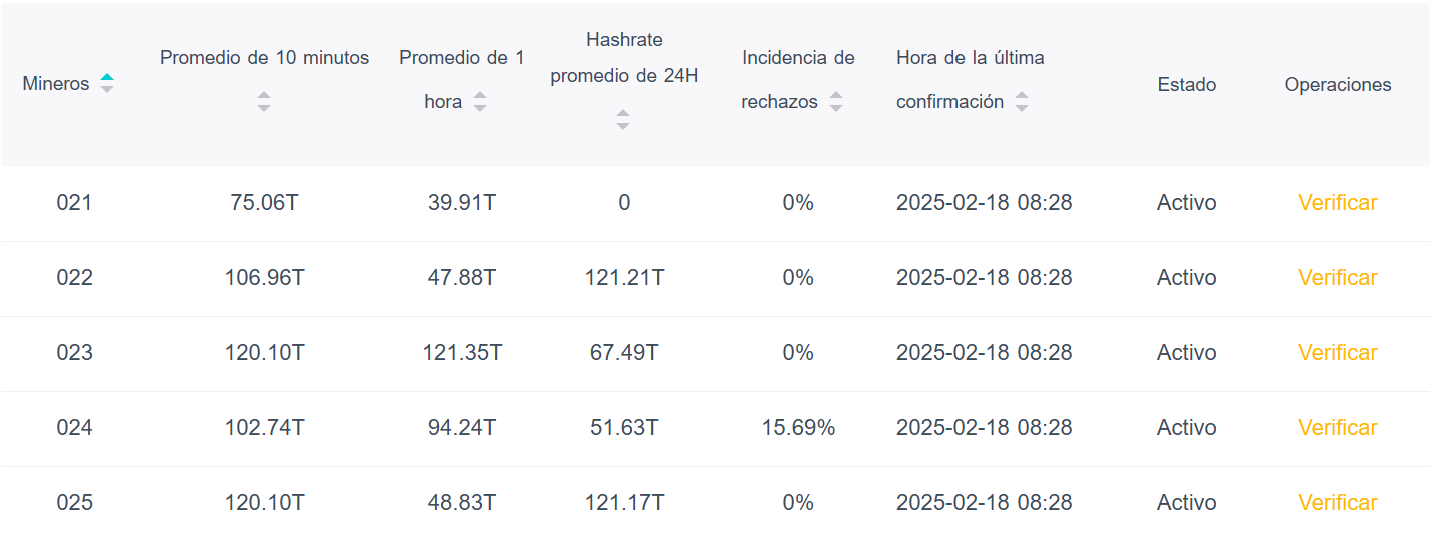
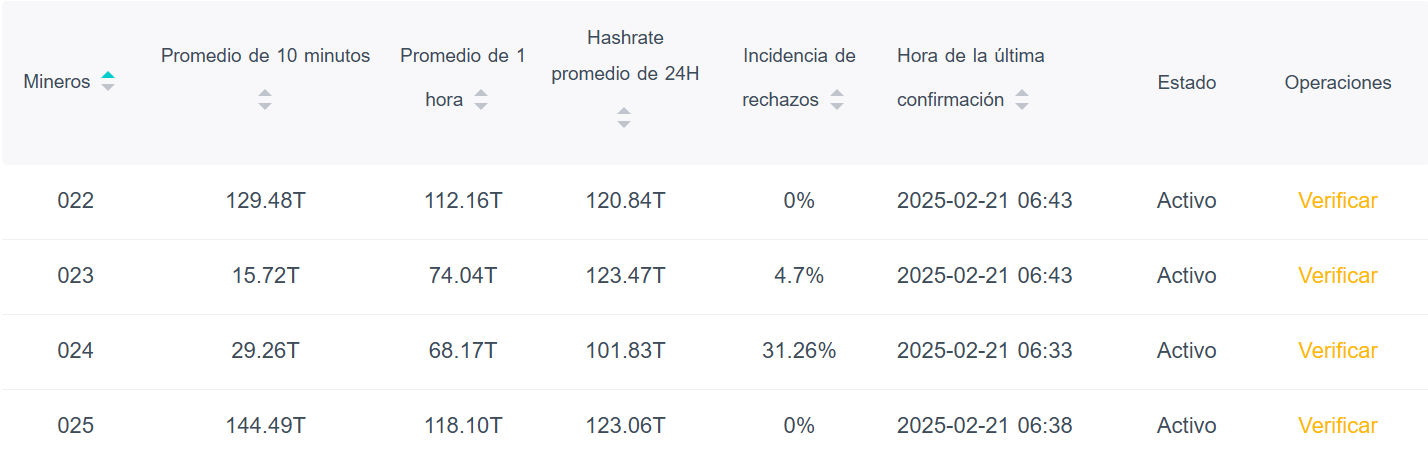
actualización reporte 21-02-25

diff --git a/index.html b/index.html
@@ -1,92 +1,110 @@
 <!DOCTYPE html>
 <html lang="en">
-<head>
-  <meta charset="UTF-8">
-  <meta name="viewport" content="width=device-width, initial-scale=1.0">
-  <title>Reporte 18 de Febrero</title>
-  <link rel="stylesheet" href="assets/css/style.css">
-  <link href="https://cdn.jsdelivr.net/npm/bootstrap@5.3.0/dist/css/bootstrap.min.css" rel="stylesheet">
-</head>
-<body>
-
-  <header>
-    <nav class="navbar navbar-expand-lg navbar-dark fixed-top">
-      <div class="container-fluid">
-        <a class="navbar-brand" href="#">Menú</a>
-        <button class="navbar-toggler" type="button" data-bs-toggle="collapse" data-bs-target="#navbarNav"
-          aria-controls="navbarNav" aria-expanded="false" aria-label="Toggle navigation">
-          <span class="navbar-toggler-icon"></span>
-        </button>
-        <div class="collapse navbar-collapse" id="navbarNav">
-          <ul class="navbar-nav me-auto">
-            <li class="nav-item"><a class="nav-link" href="#cristank">CRISTANK VIA BTC</a></li>
-            <li class="nav-item"><a class="nav-link" href="#ale">ALE VIA BTC</a></li>
-            <li class="nav-item"><a class="nav-link" href="#kaspa">KASPA CRISTANK</a></li>
-            <li class="nav-item"><a class="nav-link" href="#kaspa2">KASPA CRIS & CONY</a></li>
-            <li class="nav-item"><a class="nav-link" href="#chia">CHIA</a></li>
-            <li class="nav-item"><a class="nav-link" href="#gpu">CANTIDAD GPU EN HOST</a></li>
-            <li class="nav-item"><a class="nav-link" href="#estadoasic">ESTADO ASIC CRISTANK 026</a></li>
-            <li class="nav-item"><a class="nav-link" href="#itinerario">MI ITINERARIO</a></li>
-          </ul>
+  <head>
+    <meta charset="UTF-8" />
+    <meta name="viewport" content="width=device-width, initial-scale=1.0" />
+    <title>Reporte 18 de Febrero</title>
+    <link rel="stylesheet" href="assets/css/style.css" />
+    <link
+      href="https://cdn.jsdelivr.net/npm/bootstrap@5.3.0/dist/css/bootstrap.min.css"
+      rel="stylesheet"
+    />
+  </head>
+  <body>
+    <header>
+      <nav class="navbar navbar-expand-lg navbar-dark fixed-top">
+        <div class="container-fluid">
+          <a class="navbar-brand" href="#">Menú</a>
+          <button
+            class="navbar-toggler"
+            type="button"
+            data-bs-toggle="collapse"
+            data-bs-target="#navbarNav"
+            aria-controls="navbarNav"
+            aria-expanded="false"
+            aria-label="Toggle navigation"
+          >
+            <span class="navbar-toggler-icon"></span>
+          </button>
+          <div class="collapse navbar-collapse" id="navbarNav">
+            <ul class="navbar-nav me-auto">
+              <li class="nav-item">
+                <a class="nav-link" href="#cristank">CRISTANK VIA BTC</a>
+              </li>
+              <li class="nav-item">
+                <a class="nav-link" href="#ale">ALE VIA BTC</a>
+              </li>
+              <li class="nav-item">
+                <a class="nav-link" href="#kaspa">KASPA CRISTANK</a>
+              </li>
+              <li class="nav-item">
+                <a class="nav-link" href="#kaspa2">KASPA CRIS & CONY</a>
+              </li>
+              <li class="nav-item">
+                <a class="nav-link" href="#chia">CHIA</a>
+              </li>
+              <li class="nav-item">
+                <a class="nav-link" href="#itinerario">MI ITINERARIO</a>
+              </li>
+            </ul>
+          </div>
         </div>
+      </nav>
+
+      <div class="logotipo">
+        <img src="assets/img/Patagonia_Cryptominer.jpeg" alt="Encabezado" />
       </div>
-    </nav>
+    </header>
 
-    <div class="logotipo">
-      <img src="assets/img/Patagonia_Cryptominer.jpeg" alt="Encabezado">
-    </div>
-  </header>
+    <main class="contenido">
+      <div class="bloque" id="cristank">
+        <h1>CRISTANK VIA BTC</h1>
+        <img src="assets/img/viabtc cristank.png" alt="Contenido 1" />
+        <img src="assets/img/viabtc cristank2.png" alt="Contenido 2" />
+      </div>
 
-  <main class="contenido">
-    <div class="bloque" id="cristank">
-      <h1>CRISTANK VIA BTC</h1>
-      <img src="assets/img/viabtc cristank.png" alt="Contenido 1">
-      <img src="assets/img/viabtc cristank2.png" alt="Contenido 2">
-    </div>
+      <div class="bloque" id="ale">
+        <h1>ALE VIA BTC</h1>
+        <img src="assets/img/viabtc ale.png" alt="Contenido 2" />
+      </div>
 
-    <div class="bloque" id="ale">
-      <h1>ALE VIA BTC</h1>
-      <img src="assets/img/viabtc ale.png" alt="Contenido 2">
-    </div>
+      <div class="bloque" id="kaspa">
+        <h1>KASPA CRISTANK</h1>
+        <img src="assets/img/kaspa cristank.png" alt="Contenido 3" />
+      </div>
 
-    <div class="bloque" id="kaspa">
-      <h1>KASPA CRISTANK</h1>
-      <img src="assets/img/kaspa cristank.png" alt="Contenido 3">
-    </div>
+      <div class="bloque" id="kaspa2">
+        <h1>KASPA CRIS & CONY</h1>
+        <img src="assets/img/kaspa cris&cony.png" alt="Kaspa Cris & Cony" />
+      </div>
 
-    <div class="bloque" id="kaspa2">
-      <h1>KASPA CRIS & CONY</h1>
-      <img src="assets/img/kaspa cris&cony.png" alt="Kaspa Cris & Cony">
-    </div>
+      <div class="bloque" id="chia">
+        <h1>CHIA</h1>
+        <h2>Total Chia: 182</h2>
+        <img src="assets/img/plots.png" alt="Chia Plotting" />
+      </div>
 
-    <div class="bloque" id="chia">
-      <h1>CHIA</h1>
-      <h2>Total Chia: 182</h2>
-      <img src="assets/img/plots.png" alt="Chia Plotting">
-    </div>
+      <div class="bloque" id="itinerario">
+        <h1>MI ITINERARIO DE HOY</h1>
+        <p>
+          Hoy me dediqué a revisar 2 ASIC que no están funcionando ya que
+          fallaron los ventiladores Cristank026 y Cristank013
+        </p>
+        <p>
+          También me dedique a revisar a probar las GPU 5700XT, tengo 4 listas
+          con ventiladores buenos, 1 con ventiladores buenos, y durante el día
+          iré probando otras 5, para el sábado tendre 15 listas con ventiladores
+          buenos.
+        </p>
+      </div>
+    </main>
 
-    <div class="bloque" id="gpu">
-      <h1>CANTIDAD GPU EN HOST</h1>
-      <img src="assets/img/cantidad_gpu.png" alt="Cantidad GPU">
-    </div>
+    <footer>
+      <div class="pie_de_pagina">
+        <h3>Patagonia Cryptominer 2025</h3>
+      </div>
+    </footer>
 
-    <div class="bloque" id="estadoasic">
-      <h1>ESTADO ASIC CRISTANK 026</h1>
-      <img src="assets/img/estado_cristank_026.png" alt="Estado ASIC Cristank 026">
-    </div>
-
-    <div class="bloque" id="itinerario">
-      <h1>MI ITINERARIO DE HOY</h1>
-      <p>Hoy me dediqué a contar los GPU restantes en el HOST y hacer mantenimiento de los ASIC.</p>
-      <p>Uno de los ASIC (CRISTANK 026) sigue sin minar a pesar de que había empezado a minar después de la actualización del Firmware, esto debido a una falla con los ventiladores, por lo que voy a proceder a revisar cuál está fallando para reemplazarlo ya que contamos con repuestos.</p>
-    </div>
-  </main>
-
-  <footer>
-    <h3 class="pie_de_pagina">Patagonia Cryptominer 2025</h3>
-  </footer>
-
-  <script src="https://cdn.jsdelivr.net/npm/bootstrap@5.3.0/dist/js/bootstrap.bundle.min.js"></script>
-
-</body>
+    <script src="https://cdn.jsdelivr.net/npm/bootstrap@5.3.0/dist/js/bootstrap.bundle.min.js"></script>
+  </body>
 </html>

diff --git a/assets/css/style.css b/assets/css/style.css
@@ -1,15 +1,19 @@
 body {
-  font-family: 'Gill Sans', 'Gill Sans MT', Calibri, 'Trebuchet MS', sans-serif;
+  font-family: "Gill Sans", "Gill Sans MT", Calibri, "Trebuchet MS", sans-serif;
   margin: 0;
   padding: 0;
+  background-color: rgb(0, 0, 0);
+  background-image: url("../img/congruent_outline.png");
 }
 
 .navbar {
   position: absolute;
   width: 100%;
   z-index: 1000;
-  background: rgba(0, 0, 0, 0.8);
-  transition: background 0.3s ease-in-out
+  background: rgba(0, 0, 0, 0.3);
+  backdrop-filter: blur(10px);
+  transition: background 0.3s ease-in-out;
+  border-radius: 15px;
 }
 
 .logotipo {
@@ -38,6 +42,7 @@ body {
 }
 
 .bloque {
+  color: rgb(237, 185, 15);
   display: flex;
   flex-direction: column;
   align-items: center;
@@ -54,14 +59,26 @@ body {
   width: 100%;
   height: auto;
   object-fit: cover;
+  border-radius: 15px;
+}
+
+#itinerario {
+  margin-bottom: 100px;
 }
 
 .pie_de_pagina {
-  background-color: black;
-  color: rgb(229, 165, 17);
-  width: 100%;
-  height: 50px;
   display: flex;
   justify-content: center;
-  align-items: center;
+  background: rgba(0, 0, 0, 0.2);
+  backdrop-filter: blur(5px);
+  color: rgb(255, 200, 0);
+  text-align: center;
+  padding: 20px 0;
+  width: 100%;
+  position: fixed;
+  bottom: 0;
+  left: 0;
+  height: 60px;
+  border-top-left-radius: 15px;
+  border-top-right-radius: 15px;
 }
